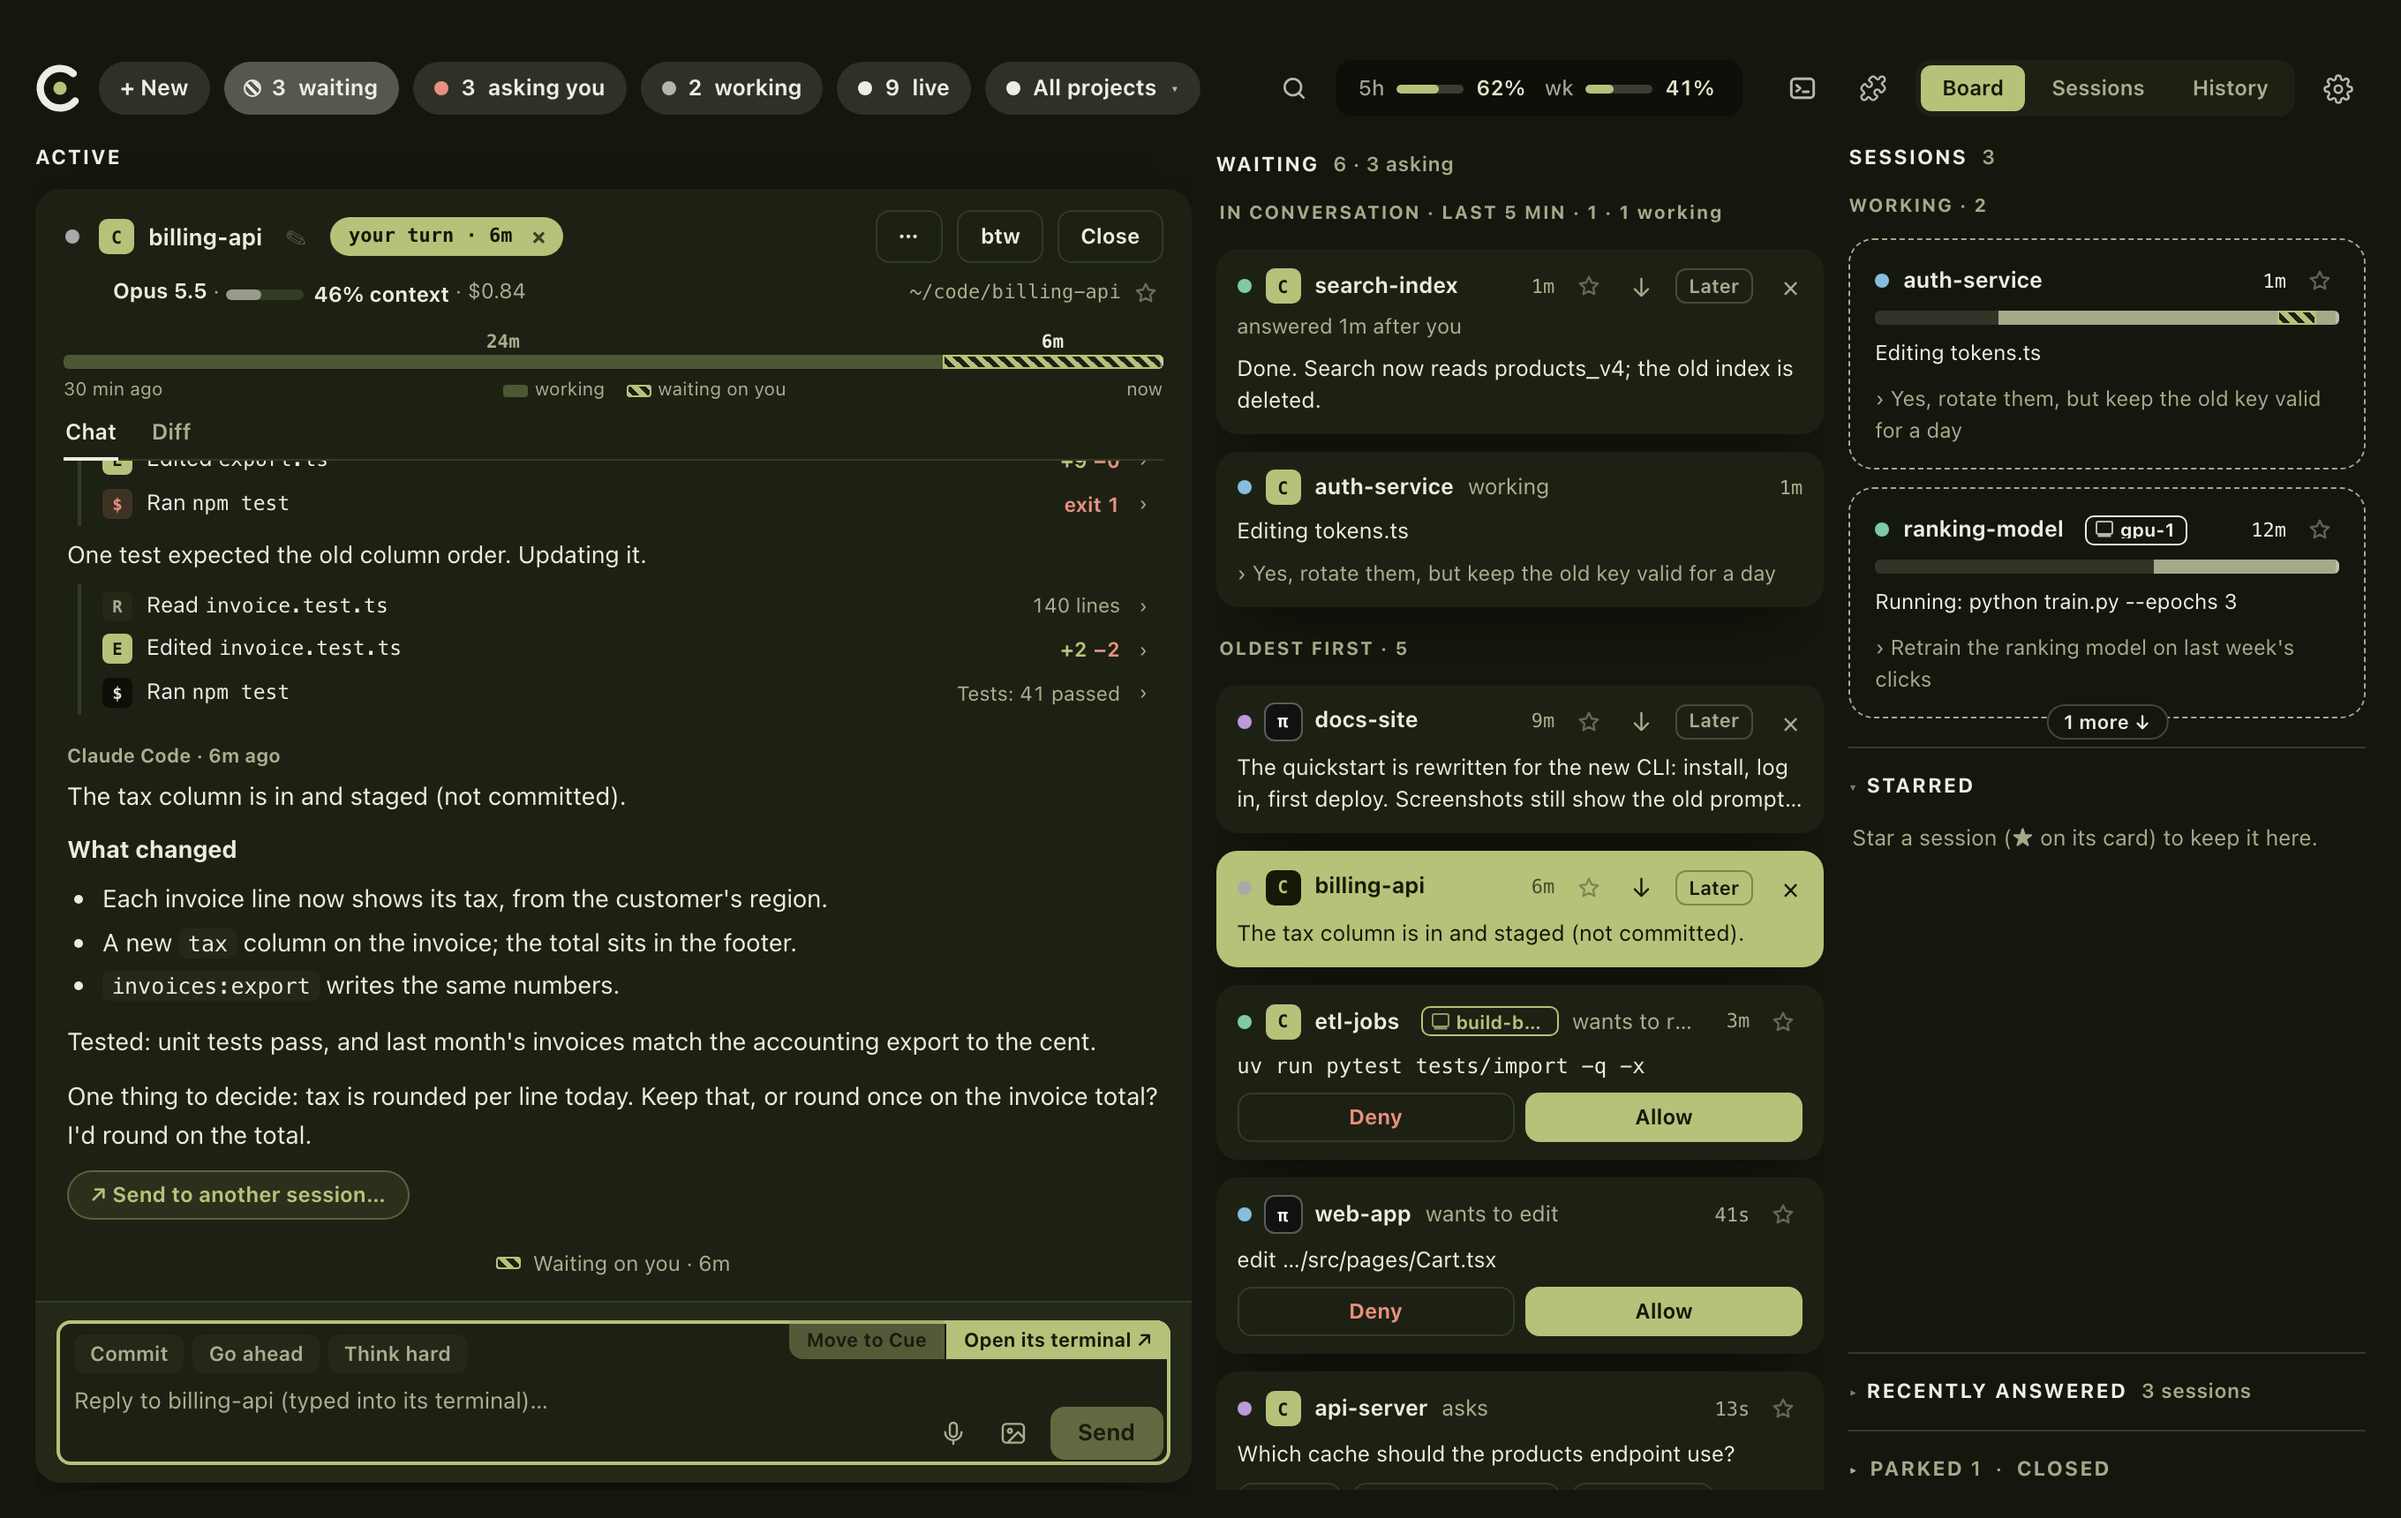
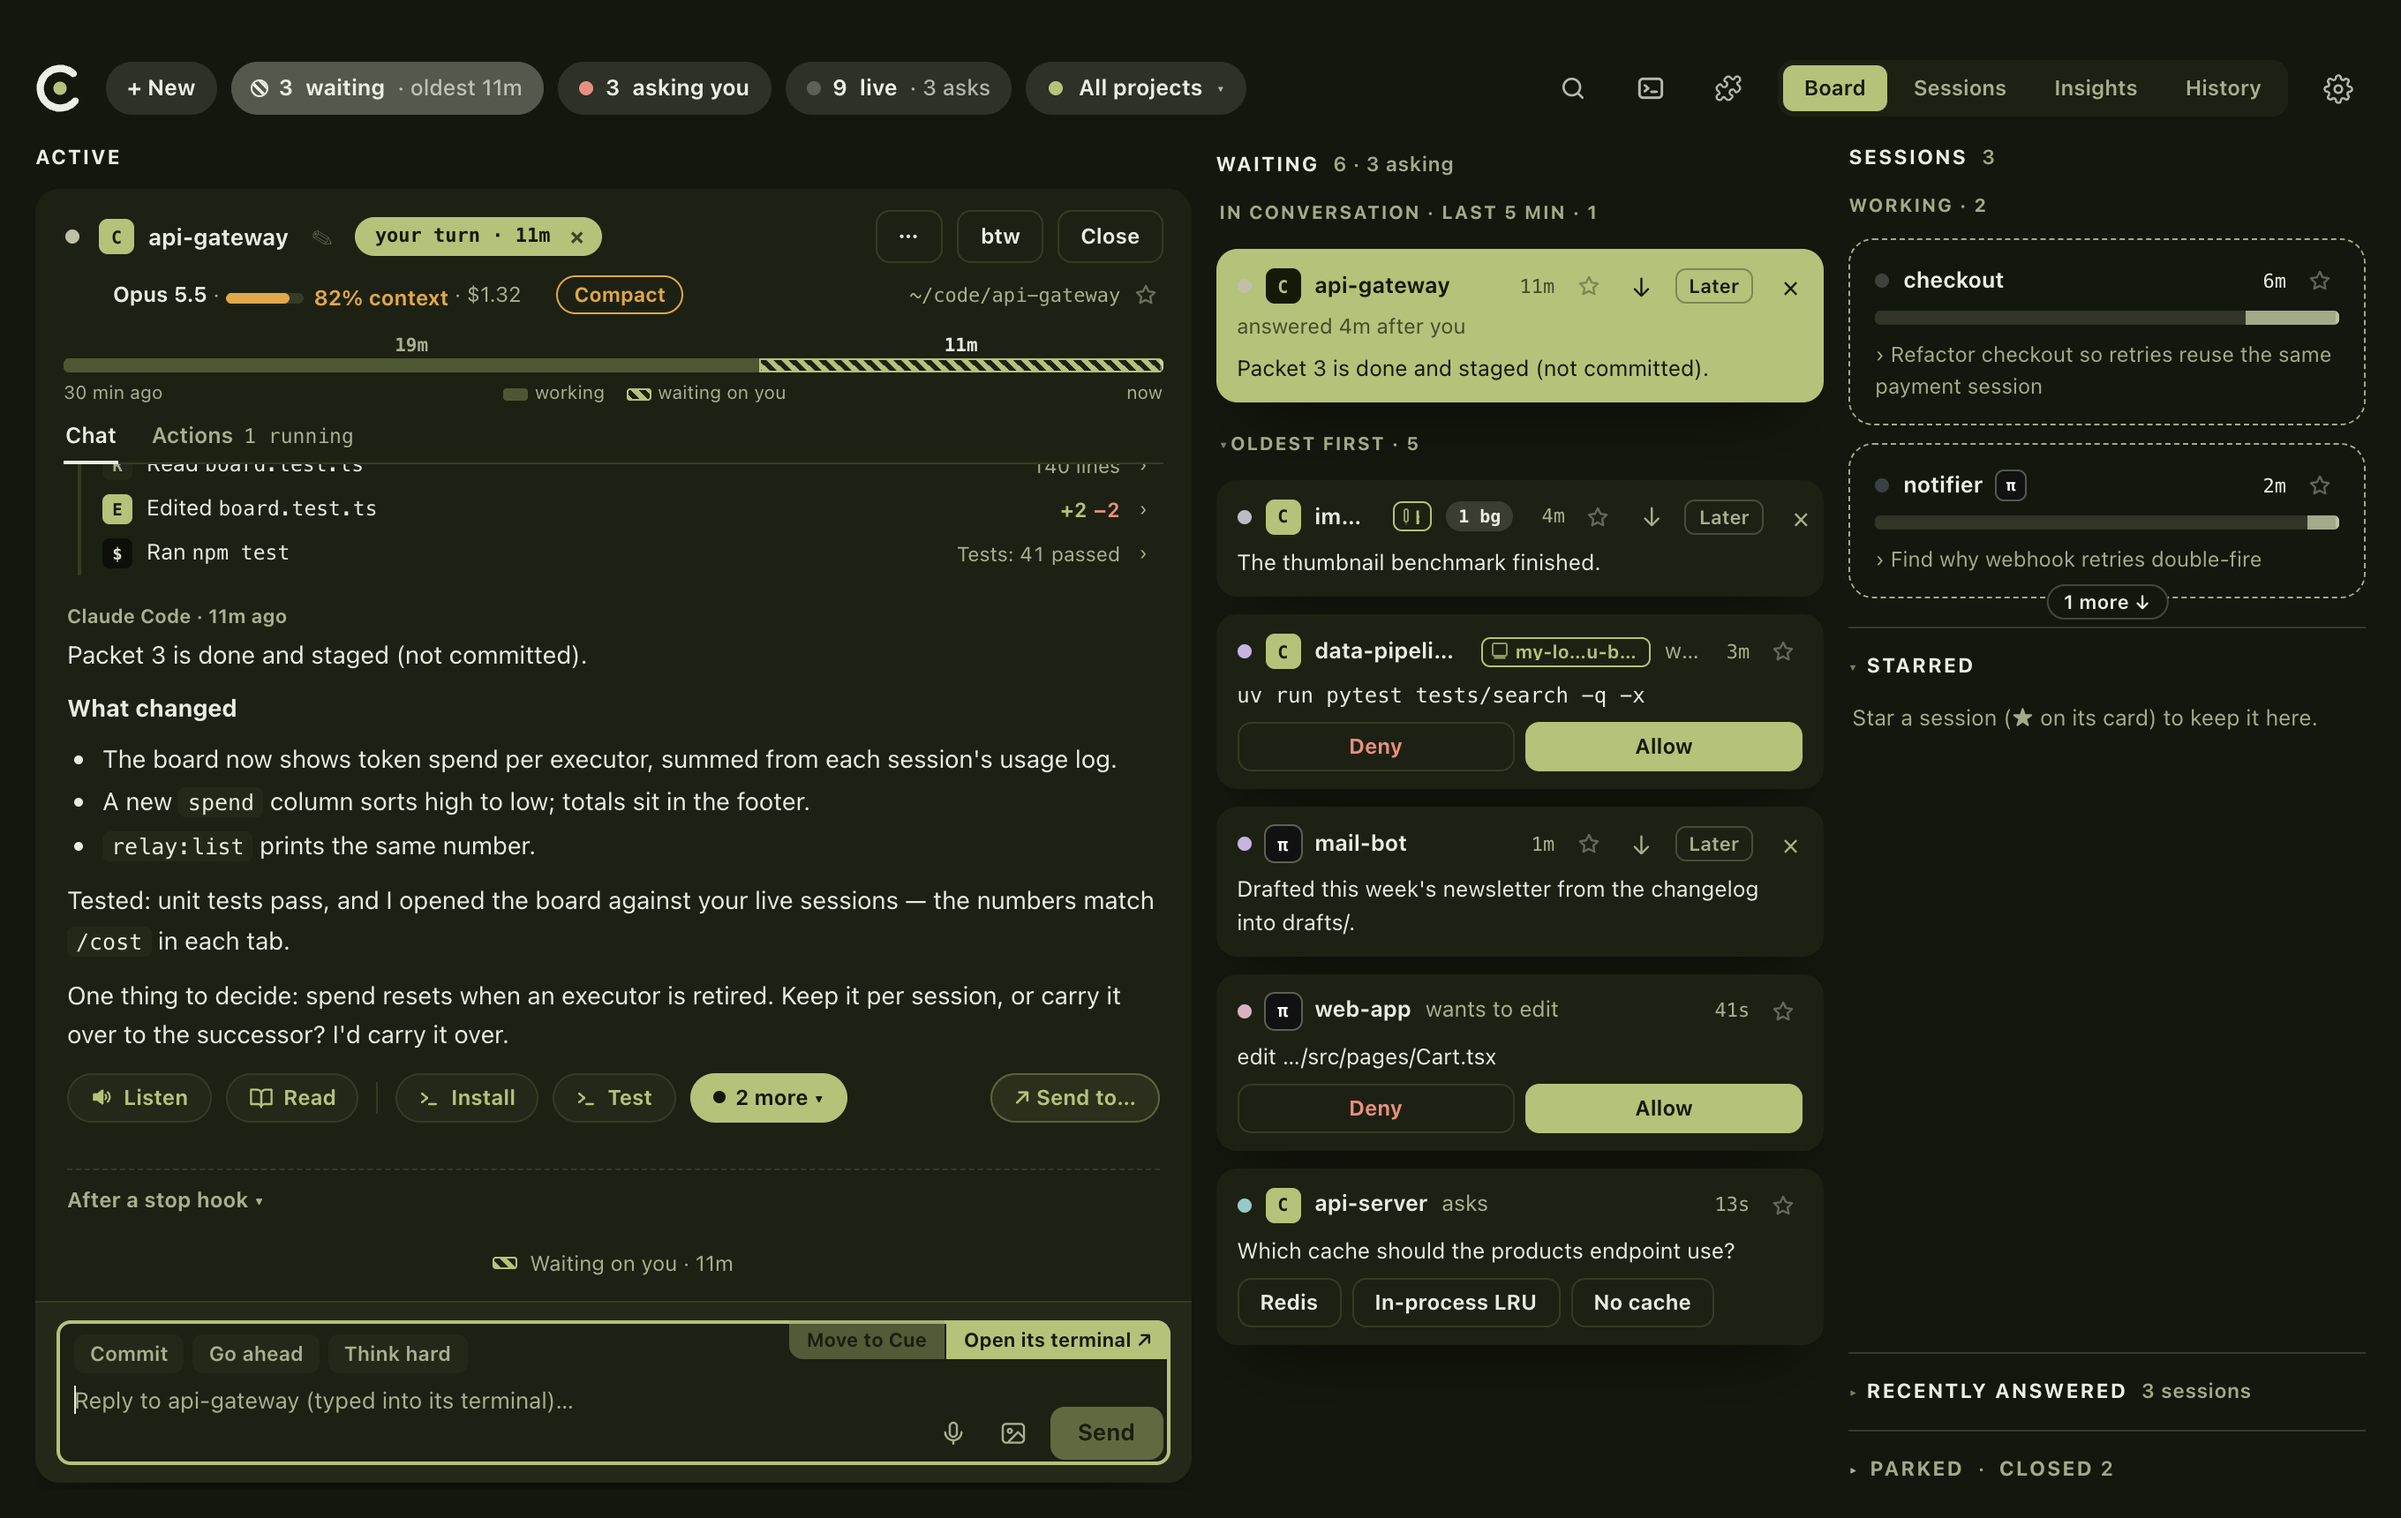
site and README: Actions and Listen, Insights, and the newer small things (projects, MCP servers per session, Start fresh); new screenshots of the Board (light and dark), a reply with its actions, and Insights, all with made-up projects
Claude-Session: https://claude.ai/code/session_014gF8tqshzJwKQGMezwmrxQ

diff --git a/site/index.html b/site/index.html
@@ -94,6 +94,8 @@ h2 { font: 800 clamp(28px, 4vw, 40px)/1.12 var(--display); letter-spacing: -0.01
 .shot { border-radius: 14px; overflow: hidden; box-shadow: var(--shadow), 0 0 0 1px var(--line); }
 /* A tall screenshot (steps) stays a readable size instead of filling its column. */
 .shot.tall { max-width: 460px; justify-self: center; }
+.wrap > .shot.window { margin-top: 32px; }
+.wrap > .text .sub { max-width: 760px; }
 .grid { display: grid; grid-template-columns: repeat(3, 1fr); gap: 14px; margin-top: 32px; }
 .mini { background: var(--panel); border-radius: 14px; padding: 18px 20px; box-shadow: 0 0 0 1px var(--line); }
 .mini b { display: block; font-size: 16px; margin-bottom: 4px; }
@@ -222,6 +224,33 @@ footer .grow { flex: 1; }
   <section>
     <div class="wrap split flip">
       <div class="text">
+        <p class="eyebrow">Actions and Listen</p>
+        <h2>Run your project's commands from the reply</h2>
+        <p class="sub">Under the agent's latest reply sit your project's own buttons: build, test, start a dev server. Click one instead of asking the agent to run it. Cue runs it in the background and the button shows how it's going.</p>
+        <ul>
+          <li>Two or three per project, kept in Cue on your Mac, never in the repository</li>
+          <li>A new or changed command runs only once you've allowed it</li>
+          <li><b>Listen</b> reads a reply out loud, in your Mac's voice or a natural one that runs on your Mac; <b>Read</b> opens a long reply full width</li>
+        </ul>
+      </div>
+      <div class="shot tall"><img src="shots/actions.png" alt="A finished reply with Listen, Read, the project's Install and Test actions, two more folded away with one of them running, and Send to." width="1308" height="1466"></div>
+    </div>
+  </section>
+
+  <section>
+    <div class="wrap">
+      <div class="text">
+        <p class="eyebrow">Insights</p>
+        <h2>What your sessions cost, and where they could cost less</h2>
+        <p class="sub">Cue reads each session's own log on your Mac and adds it up: tokens and dollars by day and by model, and the part that was avoidable. That's a cache written again because a session waited on you too long, or a long conversation read again past the point where it should have handed off. A waiting session counts down its cache, and can write its hand-off note before the cache runs out.</p>
+      </div>
+      <div class="shot window"><img src="shots/insights.png" alt="Insights: 30 days of sessions, where the dollars went with the avoidable part in amber, each day, each model, and trends." width="2720" height="1720"><span class="lights"><i></i><i></i><i></i></span></div>
+    </div>
+  </section>
+
+  <section>
+    <div class="wrap split flip">
+      <div class="text">
         <p class="eyebrow">Set up</p>
         <h2>Connect your agents in one click</h2>
         <p class="sub">On first launch Cue lists the agents it finds on your Mac. Connect adds its hooks to each agent's settings, after backing the file up; your other settings and hooks stay exactly as they were.</p>
@@ -245,6 +274,9 @@ footer .grow { flex: 1; }
         <div class="mini"><b>History and stats</b><span>What you answered today, how long agents waited, and the longest wait.</span></div>
         <div class="mini"><b>Search everything</b><span>Live, closed and older sessions, and what was said in them. Resume an old one.</span></div>
         <div class="mini"><b>Dictation</b><span>Talk instead of typing, on-device, with Apple's speech recognition.</span></div>
+        <div class="mini"><b>Projects</b><span>Sessions group by repository. Give a project a color, pin it beside All projects, or move a session to another.</span></div>
+        <div class="mini"><b>MCP servers per session</b><span>See which servers a session has and what it called through each; turn one off, or run it with just the ones you pick.</span></div>
+        <div class="mini"><b>Start fresh</b><span>When a session's cache has run out, start a new one from its last reply instead of paying to read the whole conversation again.</span></div>
         <div class="mini"><b>Updates itself</b><span>Signed updates from GitHub, offered in the menu bar icon's menu.</span></div>
       </div>
     </div>

diff --git a/README.md b/README.md
@@ -22,6 +22,25 @@ tabs to find who's waiting. A Mac app (macOS 13 or later, Apple silicon and Inte
 The terminal keeps working too: answer there or in Cue, whichever is first wins, and Cue clears
 the card either way.
 
+## Also in Cue
+
+- **Actions** — your project's own buttons (build, test, start a dev server) under the agent's latest
+  reply: click one instead of asking the agent to run it. Two or three per project, kept in Cue on
+  your Mac (never in the repository); a new or changed command runs only once you've allowed it. See
+  [docs/actions.md](docs/actions.md).
+- **Listen and Read** — Listen reads a reply out loud, in your Mac's voice or a natural voice that runs
+  on your Mac (Settings → Voice); Read opens a long reply full width.
+- **Insights** — what your sessions cost, by day and by model, and the part that was avoidable: caches
+  written again after a session waited on you, and long conversations read again past their hand-off
+  point. A waiting session counts down its cache and can write its hand-off note before it runs out,
+  or start fresh from its last reply once it has.
+- **Steps, Diff and background agents** — what a session read, edited and ran between your message and
+  its reply; what it changed; and the agents it sent off, each at work under it.
+- **Projects** — sessions group by repository, with a color and a pin each; move a session to another
+  project from its ⋯ menu (Settings → General → Reset projects… undoes every change).
+
+<p align="center"><img src="site/shots/insights.png" width="860" alt="Insights: where the dollars went, the avoidable part in amber, each day and each model."></p>
+
 ## Install
 
 1. Download `Cue-<version>.dmg` from the [latest release](https://github.com/spacegrowth/cue/releases/latest),
